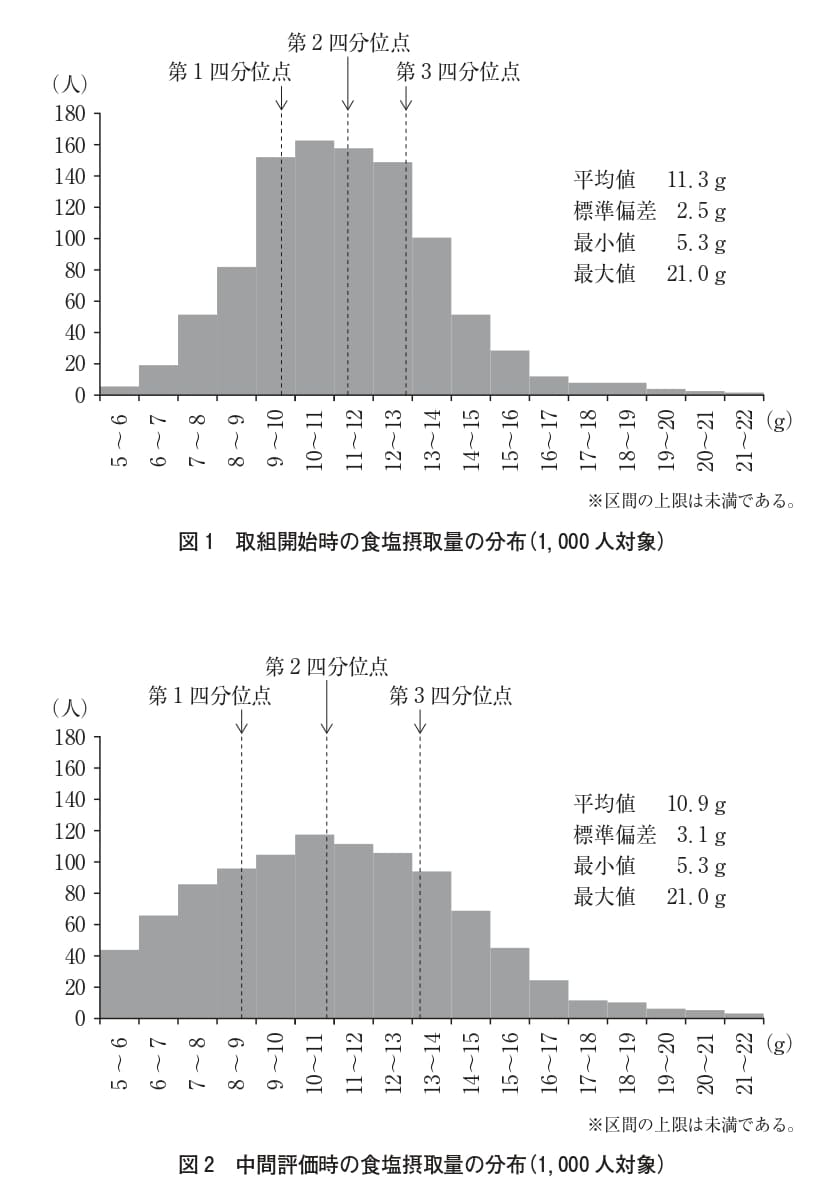
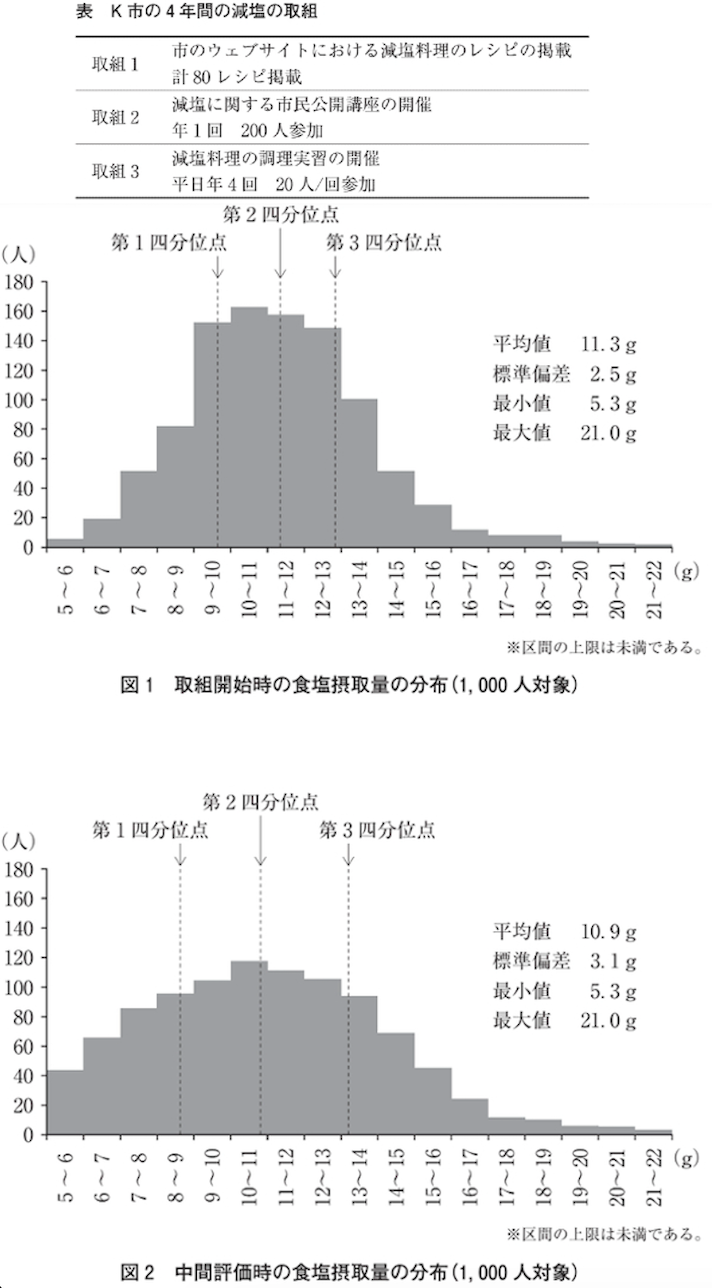
データ追加2(応用力試験問題の修正)

Changed region(s): [[0.0, 0.0, 0.9888, 1.0], [0.9579, 0.8934, 0.9888, 0.9242]]

diff --git a/db/seeds/questions_37(4).rb b/db/seeds/questions_37(4).rb
@@ -265,7 +265,9 @@ question_data = [
       
       この設問は、＜前問＞の続きの設問となります。
       
-      個別相談の際、母親は、「市販の鮭フレークを混ぜたごはんは食べるので、鮭は好きかもしれないと思ったのですが、一口大の焼き鮭は食べられませんでした。」と話した。母親が続けて話した女児の焼き鮭の食べ方である。最も適切なのはどれか。1つ選べ。",
+      個別相談の際、母親は、「市販の鮭フレークを混ぜたごはんは食べるので、鮭は好きかもしれないと思ったのですが、一口大の焼き鮭は食べられませんでした。」と話した。母親が続けて話した女児の焼き鮭の食べ方である。最も適切なのはどれか。1つ選べ。
+      <前問>↓",
+      image_path: Rails.root.join("public/question_image/37/172.webp"),
       choices: [
         { content: "⑴ 口に入れることを嫌がります。", is_answer: false },
         { content: "⑵ 口に入れるとすぐに吐き出します。", is_answer: false },
@@ -282,7 +284,9 @@ question_data = [
       
       この設問は、＜前問＞の続きの設問となります。
       
-      母親から、「肉や魚をあまり食べないので、その分、母乳を減らさずにあげています。どのようにしたら、肉や魚を食べるようになりますか。」と質問された。管理栄養士の応答である。最も適切なのはどれか。1つ選べ。",
+      母親から、「肉や魚をあまり食べないので、その分、母乳を減らさずにあげています。どのようにしたら、肉や魚を食べるようになりますか。」と質問された。管理栄養士の応答である。最も適切なのはどれか。1つ選べ。
+      <前問>↓",
+      image_path: Rails.root.join("public/question_image/37/173.webp"),
       choices: [
         { content: "⑴ 授乳回数を減らしてお腹が空けば、肉や魚も食べるかもしれませんね。", is_answer: false },
         { content: "⑵ 肉や魚を食べなくても、卵や豆腐、牛乳でたんぱく質を摂れていれば問題ないですよ。", is_answer: false },
@@ -318,7 +322,8 @@ question_data = [
       この設問は、＜前問＞の続きの設問となります。
       
       <前問>を踏まえ、栄養食事指導を行い、その1か月後に2回目の栄養食事指導を行った。2回目の指導時に、患者が持参した1日分の食事記録から、糖尿病食事療法のための食品交換表に基づき単位の計算を行った（表2）。1日の合計単位数は20.2単位であった。
-      優先的に改善を指導する項目である。最も適切なのはどれか。1つ選べ。",
+      優先的に改善を指導する項目である。最も適切なのはどれか。1つ選べ。
+      <前問>↓",
       image_path: Rails.root.join("public/question_image/37/175.webp"),
       choices: [
         { content: "⑴ 「表1」", is_answer: true },
@@ -337,7 +342,9 @@ question_data = [
       
       この設問は、＜前問＞の続きの設問となります。
       
-      患者が2回目の指導時に持参した食事記録の内容（表2）に対する、具体的なアドバイスである。最も適切なのはどれか。1つ選べ。",
+      患者が2回目の指導時に持参した食事記録の内容（表2）に対する、具体的なアドバイスである。最も適切なのはどれか。1つ選べ。
+      <表2>↓",
+      image_path: Rails.root.join("public/question_image/37/176.webp"),
       choices: [
         { content: "⑴ 夕食で、昼食と同じくらいの量のごはんを食べましょう。", is_answer: true },
         { content: "⑵ 昼食の鶏肉を、皮つきにしましょう。", is_answer: false },
@@ -370,7 +377,9 @@ question_data = [
       
       この設問は、＜前問＞の続きの設問となります。
       
-      入院1日目は呼吸苦や腹部膨満感により食事を摂取できなかった。入院2日目に、静脈栄養法と併せて、経口摂取による栄養補給を行った。用いる栄養補助食品である。最も適切なのはどれか。1つ選べ。",
+      入院1日目は呼吸苦や腹部膨満感により食事を摂取できなかった。入院2日目に、静脈栄養法と併せて、経口摂取による栄養補給を行った。用いる栄養補助食品である。最も適切なのはどれか。1つ選べ。
+      <前問>↓",
+      image_path: Rails.root.join("public/question_image/37/178.webp"),
       choices: [
         { content: "⑴ 嚥下困難者用ゼリー（9kcal/150g）", is_answer: false },
         { content: "⑵ MCT含有ゼリー（200kcal/80g）", is_answer: true },
@@ -387,7 +396,9 @@ question_data = [
       
       この設問は、＜前問＞の続きの設問となります。
       
-      入院7日目、呼吸状態の改善に従い、食欲の改善も見られ、常食（3回）と栄養補助食品（1回）で、エネルギー目標量の5割を摂取できるようになった。リハビリテーションを開始するため、栄養管理計画を見直した。最も適切なのはどれか。1つ選べ。",
+      入院7日目、呼吸状態の改善に従い、食欲の改善も見られ、常食（3回）と栄養補助食品（1回）で、エネルギー目標量の5割を摂取できるようになった。リハビリテーションを開始するため、栄養管理計画を見直した。最も適切なのはどれか。1つ選べ。
+      <前問>↓",
+      image_path: Rails.root.join("public/question_image/37/179.webp"),
       choices: [
         { content: "⑴ 1回当たりの食事量を増やす。", is_answer: false },
         { content: "⑵ 脂肪エネルギー比率を下げる。", is_answer: false },
@@ -419,7 +430,9 @@ question_data = [
       
       この設問は、＜前問＞の続きの設問となります。
       
-      再建手術直後からの栄養投与目標量の組合せである。最も適切なのはどれか。1つ選べ。",
+      再建手術直後からの栄養投与目標量の組合せである。最も適切なのはどれか。1つ選べ。
+      <前問>↓",
+      image_path: Rails.root.join("public/question_image/37/181.webp"),
       choices: [
         { content: "⑴ エネルギー（kcal/日）:600 たんぱく質（g/日）:30", is_answer: false },
         { content: "⑵ エネルギー（kcal/日）:600 たんぱく質（g/日）:50", is_answer: false },
@@ -436,7 +449,9 @@ question_data = [
       
       この設問は、＜前問＞の続きの設問となります。
       
-      手術と治療は順調に進み、術後2週間後から常食を開始することになった。食後の過ごし方について、優先的に指導する内容である。最も適切なのはどれか。1つ選べ。",
+      手術と治療は順調に進み、術後2週間後から常食を開始することになった。食後の過ごし方について、優先的に指導する内容である。最も適切なのはどれか。1つ選べ。
+      <前問>↓",
+      image_path: Rails.root.join("public/question_image/37/182.webp"),
       choices: [
         { content: "⑴ 食後1時間程度、仰臥位をとる。", is_answer: false },
         { content: "⑵ 食後1時間程度、右側臥位をとる。", is_answer: false },
@@ -466,7 +481,9 @@ question_data = [
       
       この設問は、＜前問＞の続きの設問となります。
       
-      嚥下調整食分類のコード3の食事まで食べられるようになった時点で、自宅へ退院することになった。患者の家族から、朝食の卵料理を質問された。患者の嚥下機能に適した卵料理として、最も適切なのはどれか。1つ選べ。",
+      嚥下調整食分類のコード3の食事まで食べられるようになった時点で、自宅へ退院することになった。患者の家族から、朝食の卵料理を質問された。患者の嚥下機能に適した卵料理として、最も適切なのはどれか。1つ選べ。
+      <前問>↓",
+      image_path: Rails.root.join("public/question_image/37/184.webp"),
       choices: [
         { content: "⑴ ゆで卵", is_answer: false },
         { content: "⑵ 目玉焼き", is_answer: false },
@@ -494,7 +511,9 @@ question_data = [
 
       この設問は、＜前問＞の続きの設問となります。
       
-      保護者向けの食育だよりを発行することにした。子どもの野菜を食べるセルフ・エフィカシーを高める方法として、保護者に行ってほしい内容である。最も適当なのはどれか。1つ選べ。",
+      保護者向けの食育だよりを発行することにした。子どもの野菜を食べるセルフ・エフィカシーを高める方法として、保護者に行ってほしい内容である。最も適当なのはどれか。1つ選べ。
+      <前問>↓",
+      image_path: Rails.root.join("public/question_image/37/186.webp"),
       choices: [
         { content: "⑴ 野菜が入っているか分からないようにして、料理を提供すること", is_answer: false },
         { content: "⑵ 野菜の常備菜をいつも冷蔵庫に置いておくこと", is_answer: false },
@@ -524,7 +543,9 @@ question_data = [
 
       この設問は、＜前問＞の続きの設問となります。
       
-      その後、Aの場所に、購入した機器を設置した。この機器を積極的に活用するため、調理工程を見直した。翌日の献立は、ご飯、鶏肉の竜田揚げ、小松菜のナムル、人参とキャベツのスープ、牛乳である。購入した機器を用いることにより、調理作業の効率が良くなる料理である。最も適切なのはどれか。1つ選べ。",
+      その後、Aの場所に、購入した機器を設置した。この機器を積極的に活用するため、調理工程を見直した。翌日の献立は、ご飯、鶏肉の竜田揚げ、小松菜のナムル、人参とキャベツのスープ、牛乳である。購入した機器を用いることにより、調理作業の効率が良くなる料理である。最も適切なのはどれか。1つ選べ。
+      <前問>↓",
+      image_path: Rails.root.join("public/question_image/37/188.webp"),
       choices: [
         { content: "⑴ ご飯", is_answer: false },
         { content: "⑵ 鶏肉の竜田揚げ", is_answer: false },
@@ -554,7 +575,9 @@ question_data = [
 
       この設問は、＜前問＞の続きの設問となります。
       
-      参加者全員の行動変容と、その継続を促すグループカウンセリングの進め方である。優先される進め方として、最も適切なのはどれか。1つ選べ。",
+      参加者全員の行動変容と、その継続を促すグループカウンセリングの進め方である。優先される進め方として、最も適切なのはどれか。1つ選べ。
+      <前問>↓",
+      image_path: Rails.root.join("public/question_image/37/190.webp"),
       choices: [
         { content: "⑴ AさんとBさんに、今の体型で良いと考えている理由を話してもらう。", is_answer: false },
         { content: "⑵ Cさんに、減量に取り組んだ工夫と、減量して良かったことを話してもらう。", is_answer: true },
@@ -569,7 +592,9 @@ question_data = [
 
       この設問は、＜前問＞の続きの設問となります。
       
-      Aさんは、毎日間食として、ポテトチップス1袋（60g、325kcal）を食べていた。グループカウンセリングを受けて、Aさんは、間食について当面2週間、取り組む行動目標を設定した。達成できたかどうかを、毎日セルフモニタリングする目標として、最も適切なのはどれか。1つ選べ。",
+      Aさんは、毎日間食として、ポテトチップス1袋（60g、325kcal）を食べていた。グループカウンセリングを受けて、Aさんは、間食について当面2週間、取り組む行動目標を設定した。達成できたかどうかを、毎日セルフモニタリングする目標として、最も適切なのはどれか。1つ選べ。
+      <前問>↓",
+      image_path: Rails.root.join("public/question_image/37/191.webp"),
       choices: [
         { content: "⑴ ポテトチップスを食べないよう心がける。", is_answer: false },
         { content: "⑵ ポテトチップスを食べない。", is_answer: false },
@@ -599,7 +624,9 @@ question_data = [
 
       この設問は、＜前問＞の続きの設問となります。
       
-      ある日、社員Aさんは喫食後に、味噌汁の味がいつもより塩辛かったと調理師に伝え、オフィスに戻った。調理師は作業終了後、管理栄養士にそのことを伝えた。調理師にAさんの喫食時間を聞いたところ、今日はいつもより遅く、13時30分近くであった。味噌汁の食塩濃度に影響を与えたと考えられる要因である。最も適切なのはどれか。1つ選べ。",
+      ある日、社員Aさんは喫食後に、味噌汁の味がいつもより塩辛かったと調理師に伝え、オフィスに戻った。調理師は作業終了後、管理栄養士にそのことを伝えた。調理師にAさんの喫食時間を聞いたところ、今日はいつもより遅く、13時30分近くであった。味噌汁の食塩濃度に影響を与えたと考えられる要因である。最も適切なのはどれか。1つ選べ。
+      <前問>↓",
+      image_path: Rails.root.join("public/question_image/37/193.webp"),
       choices: [
         { content: "⑴ 具材の量", is_answer: false },
         { content: "⑵ 味噌汁の品質基準", is_answer: false },
@@ -614,7 +641,9 @@ question_data = [
 
       この設問は、＜前問＞の続きの設問となります。
       
-      Aさんの意見を受けて、これまでの喫食者の満足度調査を行い、<前問>で把握した要因を確認した。味噌汁を適切な品質で提供するための改善策である。最も適切なのはどれか。1つ選べ。",
+      Aさんの意見を受けて、これまでの喫食者の満足度調査を行い、<前問>で把握した要因を確認した。味噌汁を適切な品質で提供するための改善策である。最も適切なのはどれか。1つ選べ。
+      <前問>↓",
+      image_path: Rails.root.join("public/question_image/37/194.webp"),
       choices: [
         { content: "⑴ 提供時に1杯ずつ食塩濃度を測定する。", is_answer: false },
         { content: "⑵ 味噌汁の品質基準を変更する。", is_answer: false },
@@ -642,7 +671,9 @@ question_data = [
 
       この設問は、＜前問＞の続きの設問となります。
       
-      食事調査の実施前に、世帯の代表者または世帯で主に調理を行う者に対して、説明会を行う。食事記録を行う際の留意点として説明する内容である。誤っているのはどれか。1つ選べ。",
+      食事調査の実施前に、世帯の代表者または世帯で主に調理を行う者に対して、説明会を行う。食事記録を行う際の留意点として説明する内容である。誤っているのはどれか。1つ選べ。
+      <前問>↓",
+      image_path: Rails.root.join("public/question_image/37/196.webp"),
       choices: [
         { content: "⑴ 特別な行事などがない、普段の食事の記録をしてください。", is_answer: false },
         { content: "⑵ 単身赴任など離れて暮らす家族の食事も記録してください。", is_answer: true },
@@ -658,7 +689,9 @@ question_data = [
 
       この設問は、＜前問＞の続きの設問となります。
       
-      食事記録内容の確認を行ったところ、飯の量が「茶碗1杯」と記録されていた。この場合に重量を推定するための対応である。最も適切なのはどれか。1つ選べ。",
+      食事記録内容の確認を行ったところ、飯の量が「茶碗1杯」と記録されていた。この場合に重量を推定するための対応である。最も適切なのはどれか。1つ選べ。
+      <前問>↓",
+      image_path: Rails.root.join("public/question_image/37/197.webp"),
       choices: [
         { content: "⑴ あらかじめ設定された換算表を用いて推定する。", is_answer: false },
         { content: "⑵ 調査員の自宅で使用している茶碗の大きさから推定する。", is_answer: false },
@@ -671,11 +704,6 @@ question_data = [
       question_trend_id: 3,
       content: "K市健康増進課の管理栄養士である。
       K市（5万人）では健康増進計画の一環として、減塩の取組を行ってきた。取組開始時に、食塩摂取量と減塩に対する意識について調査を行っており、減塩に対する意識が高い者の方が食塩摂取量が少なかった。計画は10年計画で、5年目に中間評価を行った。表は過去4年間に行った取組である。
-      
-      【表 K市の4年間の減塩の取組】
-      取組1 市のウェブサイトにおける減塩料理のレシピの掲載 計80レシピ掲載
-      取組2 減塩に関する市民公開講座の開催 年1回 200人参加
-      取組3 減塩料理の調理実習の開催 平日年4回 20人/回参加
       
       取組開始時と中間評価時に、それぞれ市民1,000人ずつを無作為抽出し、横断調査を実施した（図1、2）。調査方法は同一である。市民の食塩摂取量の変化に関する記述である。最も適当なのはどれか。1つ選べ。",
       image_path: Rails.root.join("public/question_image/37/198.webp"),
@@ -693,14 +721,11 @@ question_data = [
       content: "K市健康増進課の管理栄養士である。
       K市（5万人）では健康増進計画の一環として、減塩の取組を行ってきた。取組開始時に、食塩摂取量と減塩に対する意識について調査を行っており、減塩に対する意識が高い者の方が食塩摂取量が少なかった。計画は10年計画で、5年目に中間評価を行った。表は過去4年間に行った取組である。
       
-      【表 K市の4年間の減塩の取組】
-      取組1 市のウェブサイトにおける減塩料理のレシピの掲載 計80レシピ掲載
-      取組2 減塩に関する市民公開講座の開催 年1回 200人参加
-      取組3 減塩料理の調理実習の開催 平日年4回 20人/回参加
-      
       この設問は、＜前問＞の続きの設問となります。
       
-      図1から図2に至った食塩摂取量の変化の理由について、表の4年間の取組から考察した。最も適切なのはどれか。1つ選べ。",
+      図1から図2に至った食塩摂取量の変化の理由について、表の4年間の取組から考察した。最も適切なのはどれか。1つ選べ。
+      <図1、図2>↓",
+      image_path: Rails.root.join("public/question_image/37/199.webp"),
       choices: [
         { content: "⑴ 減塩レシピを、市のウェブサイトで掲載したため", is_answer: false },
         { content: "⑵ 減塩に対する意識の高い人向けの取組になっていたため", is_answer: true },
@@ -714,14 +739,11 @@ question_data = [
       content: "K市健康増進課の管理栄養士である。
       K市（5万人）では健康増進計画の一環として、減塩の取組を行ってきた。取組開始時に、食塩摂取量と減塩に対する意識について調査を行っており、減塩に対する意識が高い者の方が食塩摂取量が少なかった。計画は10年計画で、5年目に中間評価を行った。表は過去4年間に行った取組である。
       
-      【表 K市の4年間の減塩の取組】
-      取組1 市のウェブサイトにおける減塩料理のレシピの掲載 計80レシピ掲載
-      取組2 減塩に関する市民公開講座の開催 年1回 200人参加
-      取組3 減塩料理の調理実習の開催 平日年4回 20人/回参加
-      
       この設問は、＜前問＞の続きの設問となります。
       
-      食塩摂取量の変化とその考察を踏まえて、市民の食塩摂取状況の課題解決に向けて、取組を見直した。最も適切なのはどれか。1つ選べ。",
+      食塩摂取量の変化とその考察を踏まえて、市民の食塩摂取状況の課題解決に向けて、取組を見直した。最も適切なのはどれか。1つ選べ。
+      <前問>↓",
+      image_path: Rails.root.join("public/question_image/37/200.webp"),
       choices: [
         { content: "⑴ 民間のレシピサイト運営会社と連携し、民間のサイトで、市の減塩レシピの情報発信を行うことにした。", is_answer: false },
         { content: "⑵ 市民公開講座の会場を、収容人数が大きい施設に変更することにした。", is_answer: false },

diff --git a/db/seeds.rb b/db/seeds.rb
@@ -11,7 +11,7 @@
 # 頻出傾向データ実装済み　load Rails.root.join('db', 'seeds', 'question_trends.rb')
 
 #第37回問題
-# 問題データ1実装済み  load Rails.root.join('db', 'seeds', 'questions_37(1).rb') #合計問題数50、選択肢数249
+# 問題データ1実装済み load Rails.root.join('db', 'seeds', 'questions_37(1).rb') #合計問題数50、選択肢数249
 # 問題データ2実装済み load Rails.root.join('db', 'seeds', 'questions_37(2).rb') #合計問題数100、選択肢数499
 # 問題データ3実装済み load Rails.root.join('db', 'seeds', 'questions_37(3).rb') #合計問題数150、選択肢数746
 # 問題データ4実装済み load Rails.root.join('db', 'seeds', 'questions_37(4).rb') #合計問題数200、選択肢数970
